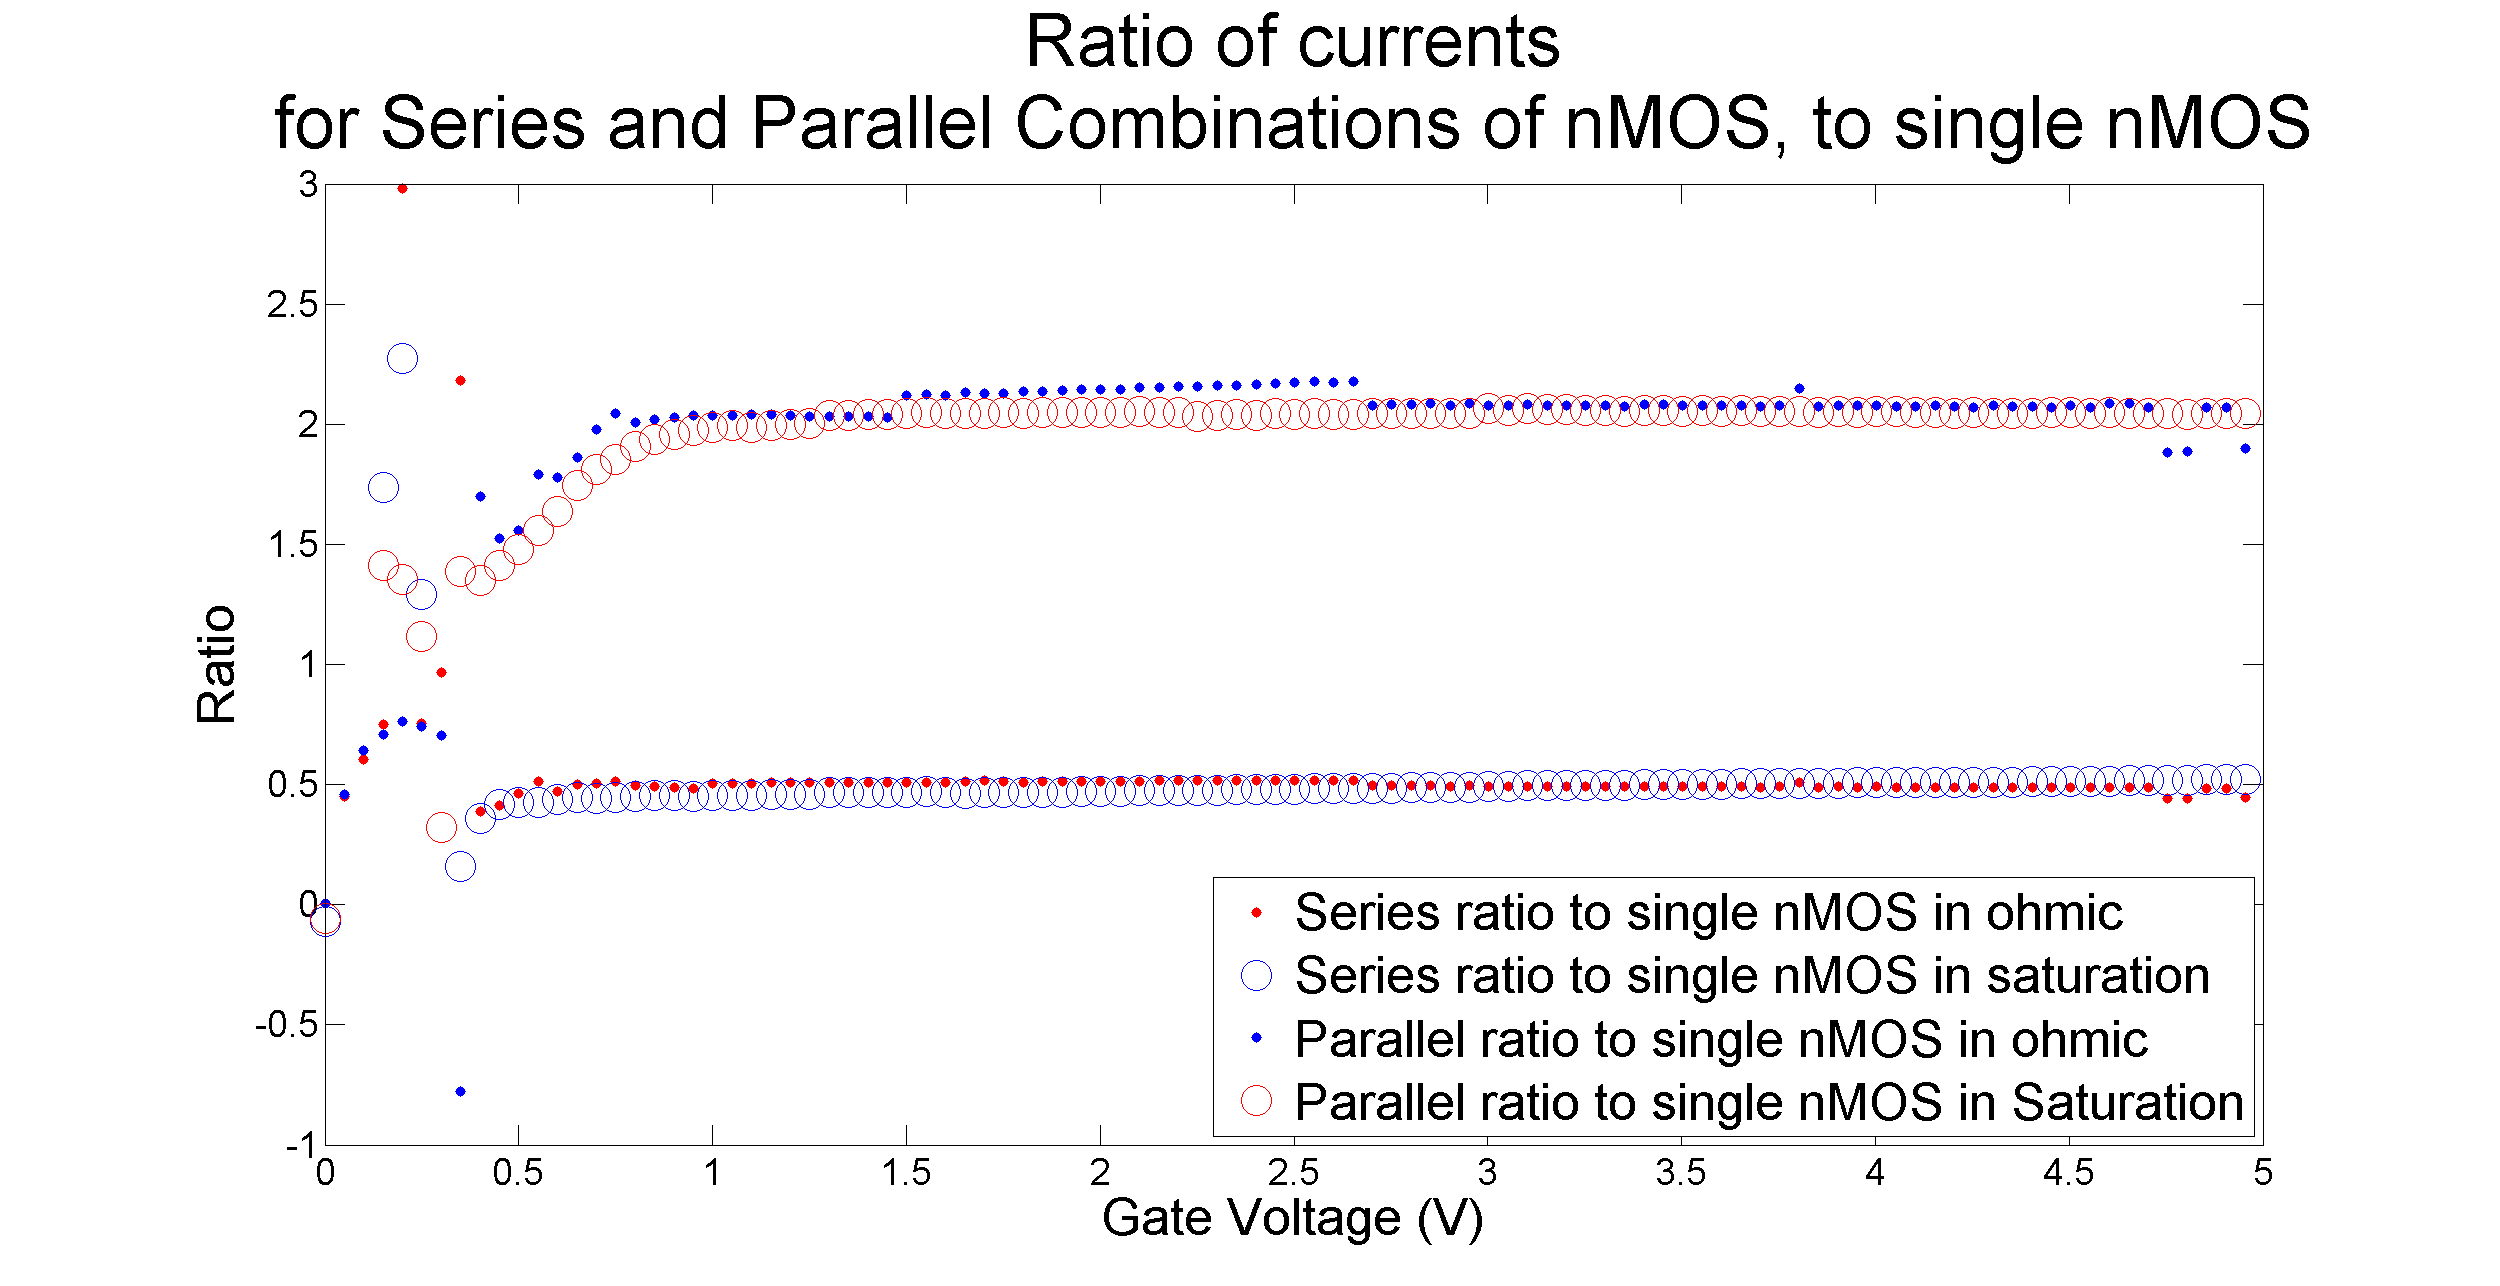
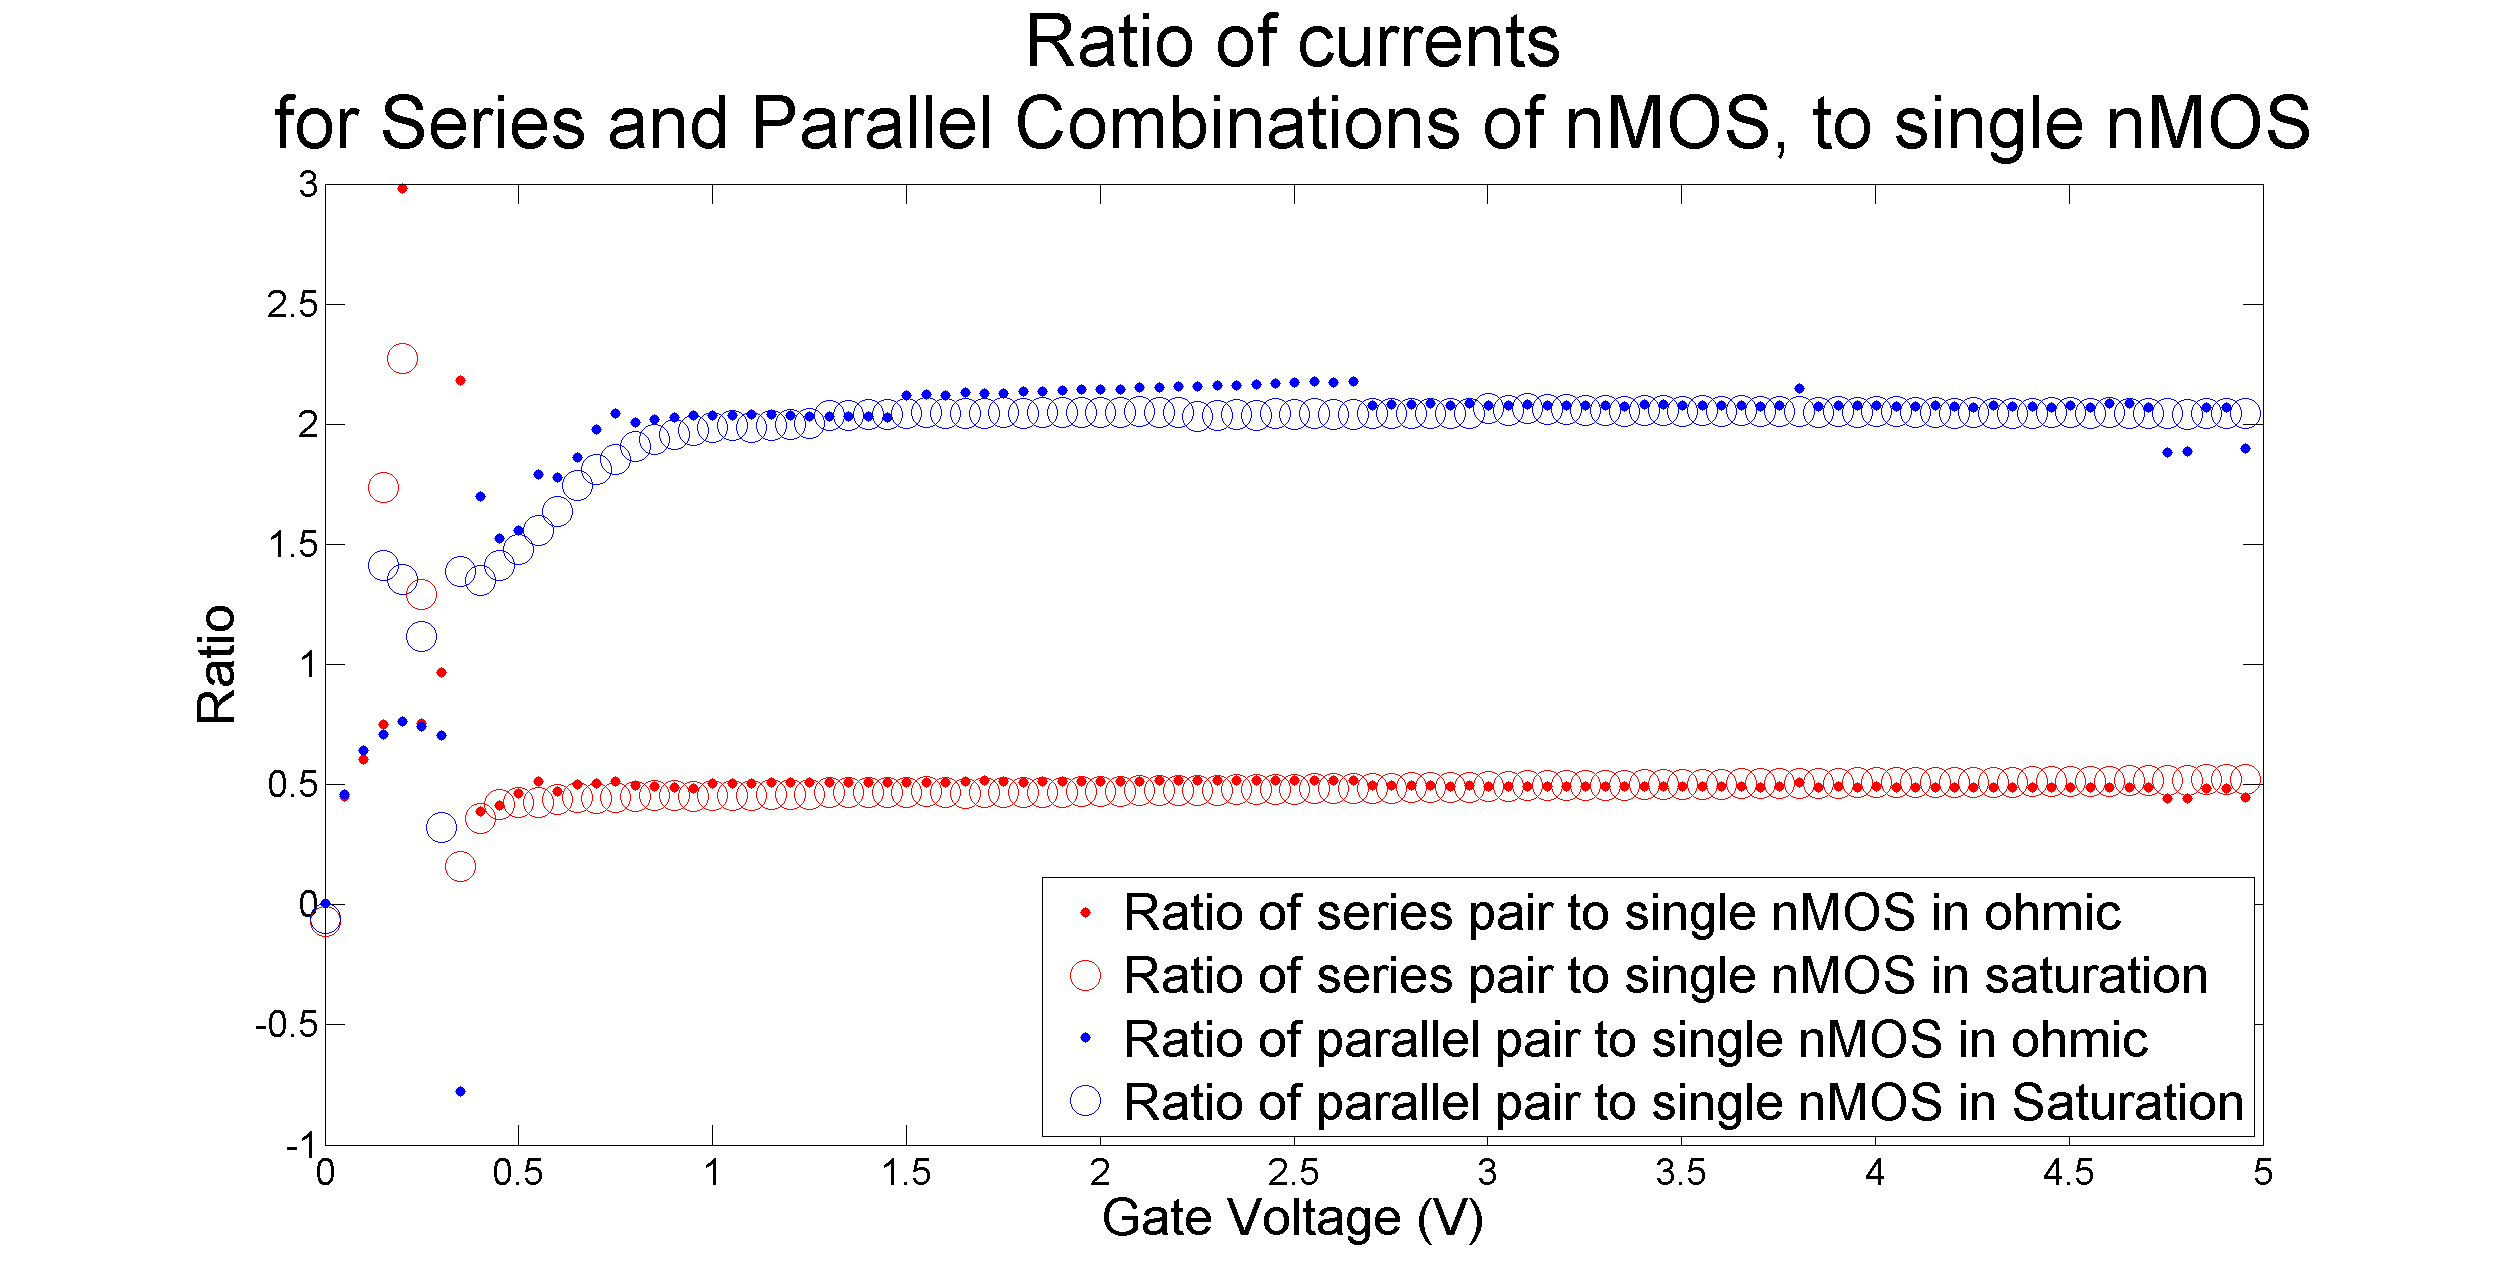
Finished experiment 2

diff --git a/Writeup/exp2.tex b/Writeup/exp2.tex
@@ -3,13 +3,33 @@ In this experiment, we explore how series and parallel combinations of \nMOS tra
 and what affect these combinations have on the channel current, \Isat, as a function of gate voltage,
 \Vg. In order to accomplish this comparison, we collected data for the channel current in both ohmic 
 and saturation regions of operation for a single \nMOS transistor, two transistors in parallel, and
-two transistors in series, using $V_{gb} = 10mV$ and $ V_{ds} = V_{dd}$ and respectively.
+two transistors in series, with the same gate, source, drain and bulk voltages. We tested the 
+configurations in both the ohmic and saturation regions of operation, using $V_{gb} = 10mV$ and
+ $ V_{ds} = V_{dd}$ and respectively.
 
 \begin{figure}[H]
 \centering
 \includegraphics[width=\linewidth]{../Figures/Experiment2Currents.eps}
 \caption{Note that after SMU is able to accurately measure current, after the channel current increases past roughly $10^{-8}$, the three different arrangements are separated by a constant distance in logspace, and thus appear to differ by a constant factor.}
-\label{fig:nmosdia}
+\label{fig:exp2currents}
 \end{figure}
 
-At first glance, it seems that the channel current through the series combination is half of that through a single \nMOS with the same gate, source, drain and bulk voltages.
+By analyzing Figure \ref{fig:exp2currents}, we can see that the series, parallel and single curves appear to be offset by a linear distance in logspace, thus indicating that there is a linear factor between the relationships. 
+
+In order to find the true relationship, we explored the ratio of both the series and parallel combination of \nMOS transistors with the same \Vg, \Vd, \Vs and \Vb, plotting these ratios as a function of the gate voltage, \Vg, below in Figure \ref{fig:exp2ratios}. 
+In the strong inversion region, the ratio between both the series and parallel combinations to that of a single transistor is consistently, $0.5$ and $2$, respectively. That is to say, from our experimental data, a pair of series transistors sinks half the current as a single transistor, and a pair of transistors in parallel sinks twice the current of a single transistor, when matched.
+
+\begin{figure}[H]
+\centering
+\includegraphics[width=\linewidth]{../Figures/Experiment2Ratios.eps}
+\caption{After the two curves stabilize, past roughly $0.75V$, the ratio between both series and parallel combinations to a single \nMOS is consistent, and produces the expected value; a pair of \nMOS transistors in series has half the current of one, and a pair of \nMOS transistors in parallel has twice the current as a single transistors.}
+\label{fig:exp2ratios}
+\end{figure}
+
+Meanwhile, in the weak inversion region of operation, the series combination of transistors much better maintains a consistent ratio, quickly approaching a 1:2 ratio as the SMU is able to accurately measure current. Before this value, we believe a combination of SMU error at low current and measurement of leakage current cause the deviation. 
+
+
+On the other hand, the parallel combination does not approach the ratio of 2:1 until $1V$. We believe it takes this parallel combination much longer because the leakage current measured is effectively double. Further, since different individual transistors were used in this test, it may be due to the relatively large deviation of Transistor 2, shown in Figure \ref{fig:exp1fig2}. We used Transistor 2 in the parallel combination, and since it had a higher strength factor than the other three resistors, more current would flow through it, thus making the parallel pair have a ratio closer to 1:1, rather than the 2:1 it eventually achieves, as the voltage increases.
+
+
+

diff --git a/Lab6Experiment2Plotter.m b/Lab6Experiment2Plotter.m
@@ -56,20 +56,20 @@ screen_size = get(0, 'ScreenSize');
 set(gcf, 'Position', [0 0 screen_size(3) screen_size(4) ] ); %set to scren size
 set(gcf,'PaperPositionMode','auto') %set paper pos for printing
 plot(Series_nMOS_Ohmic_GateVoltage(1:interval:end), series_single_ohmic(1:interval:end), 'r.','MarkerSize',15); hold on;
-plot(Series_nMOS_Sat_GateVoltage(1:interval:end), series_single_sat(1:interval:end), 'bo','MarkerSize',15); hold on;
+plot(Series_nMOS_Sat_GateVoltage(1:interval:end), series_single_sat(1:interval:end), 'ro','MarkerSize',15); hold on;
 
 plot(Parallel_nMOS_Ohmic_GateVoltage(1:interval:end), paralell_single_ohmic(1:interval:end), 'b.','MarkerSize',15); hold on;
-plot(Parallel_nMOS_Sat_GateVoltage(1:interval:end), paralell_single_sat(1:interval:end), 'ro','MarkerSize',15); hold on;
+plot(Parallel_nMOS_Sat_GateVoltage(1:interval:end), paralell_single_sat(1:interval:end), 'bo','MarkerSize',15); hold on;
 
 %%%Set Plot Labels and legends for Figure 2
 ylim([-1,3]);
 title({'Ratio of currents' ; 'for Series and Parallel Combinations of nMOS, to single nMOS'});
 xlabel('Gate Voltage (V)');
 ylabel('Ratio');
-legend('Series ratio to single nMOS in ohmic',...
-'Series ratio to single nMOS in saturation',...
-'Parallel ratio to single nMOS in ohmic',...
-'Parallel ratio to single nMOS in Saturation', 'Location','SouthEast');
+legend('Ratio of series pair to single nMOS in ohmic',...
+'Ratio of series pair to single nMOS in saturation',...
+'Ratio of parallel pair to single nMOS in ohmic',...
+'Ratio of parallel pair to single nMOS in Saturation', 'Location','SouthEast');
 SetFigureFontSizes();
 
 %%%Save Figure 2

diff --git a/Writeup/main.tex b/Writeup/main.tex
@@ -14,6 +14,7 @@
 \newcommand{\Vds}{{$V_{DS}$}}
 \newcommand{\Vs}{{$V_{S}$}}
 \newcommand{\Vbs}{{$V_{BS}$}}
+\newcommand{\Vb}{{$V_{B}$}}
 \newcommand{\Va}{{$V_{A}$}}
 \newcommand{\Vd}{{$V_{D}$}}
 \newcommand{\Vdd}{{$V_{dd}$}}
